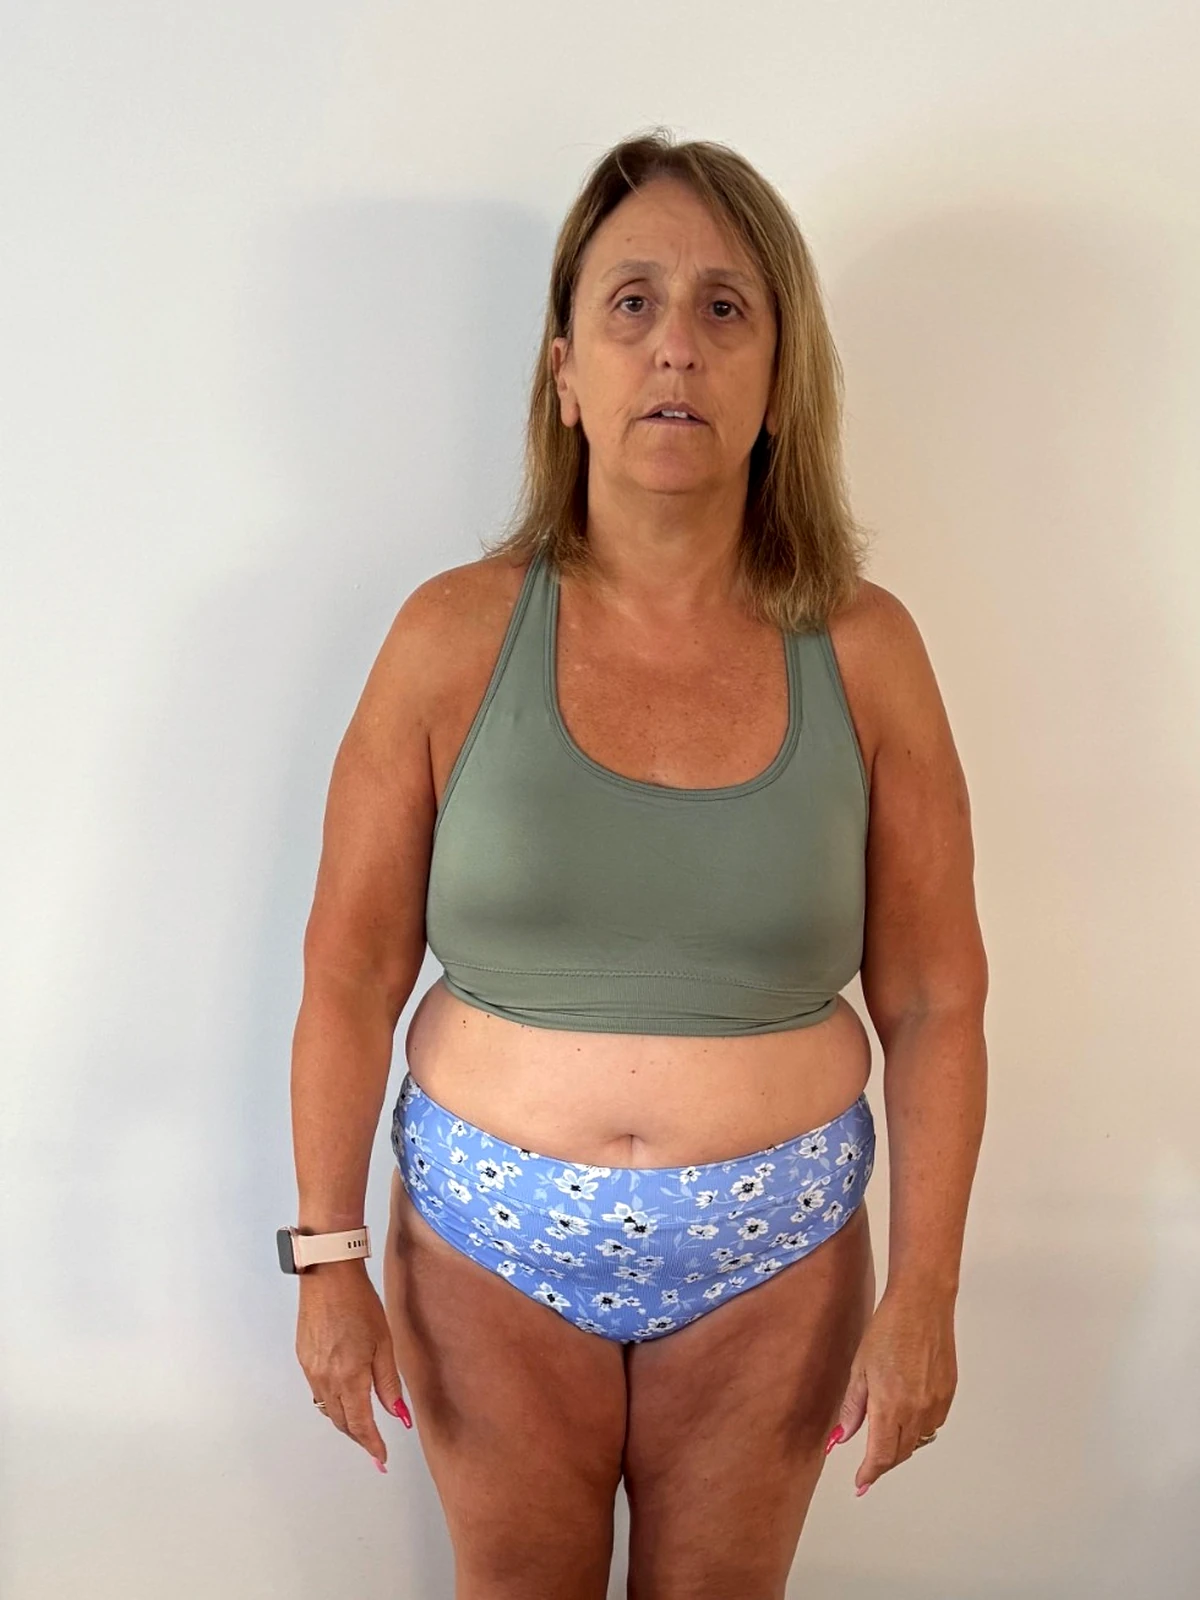
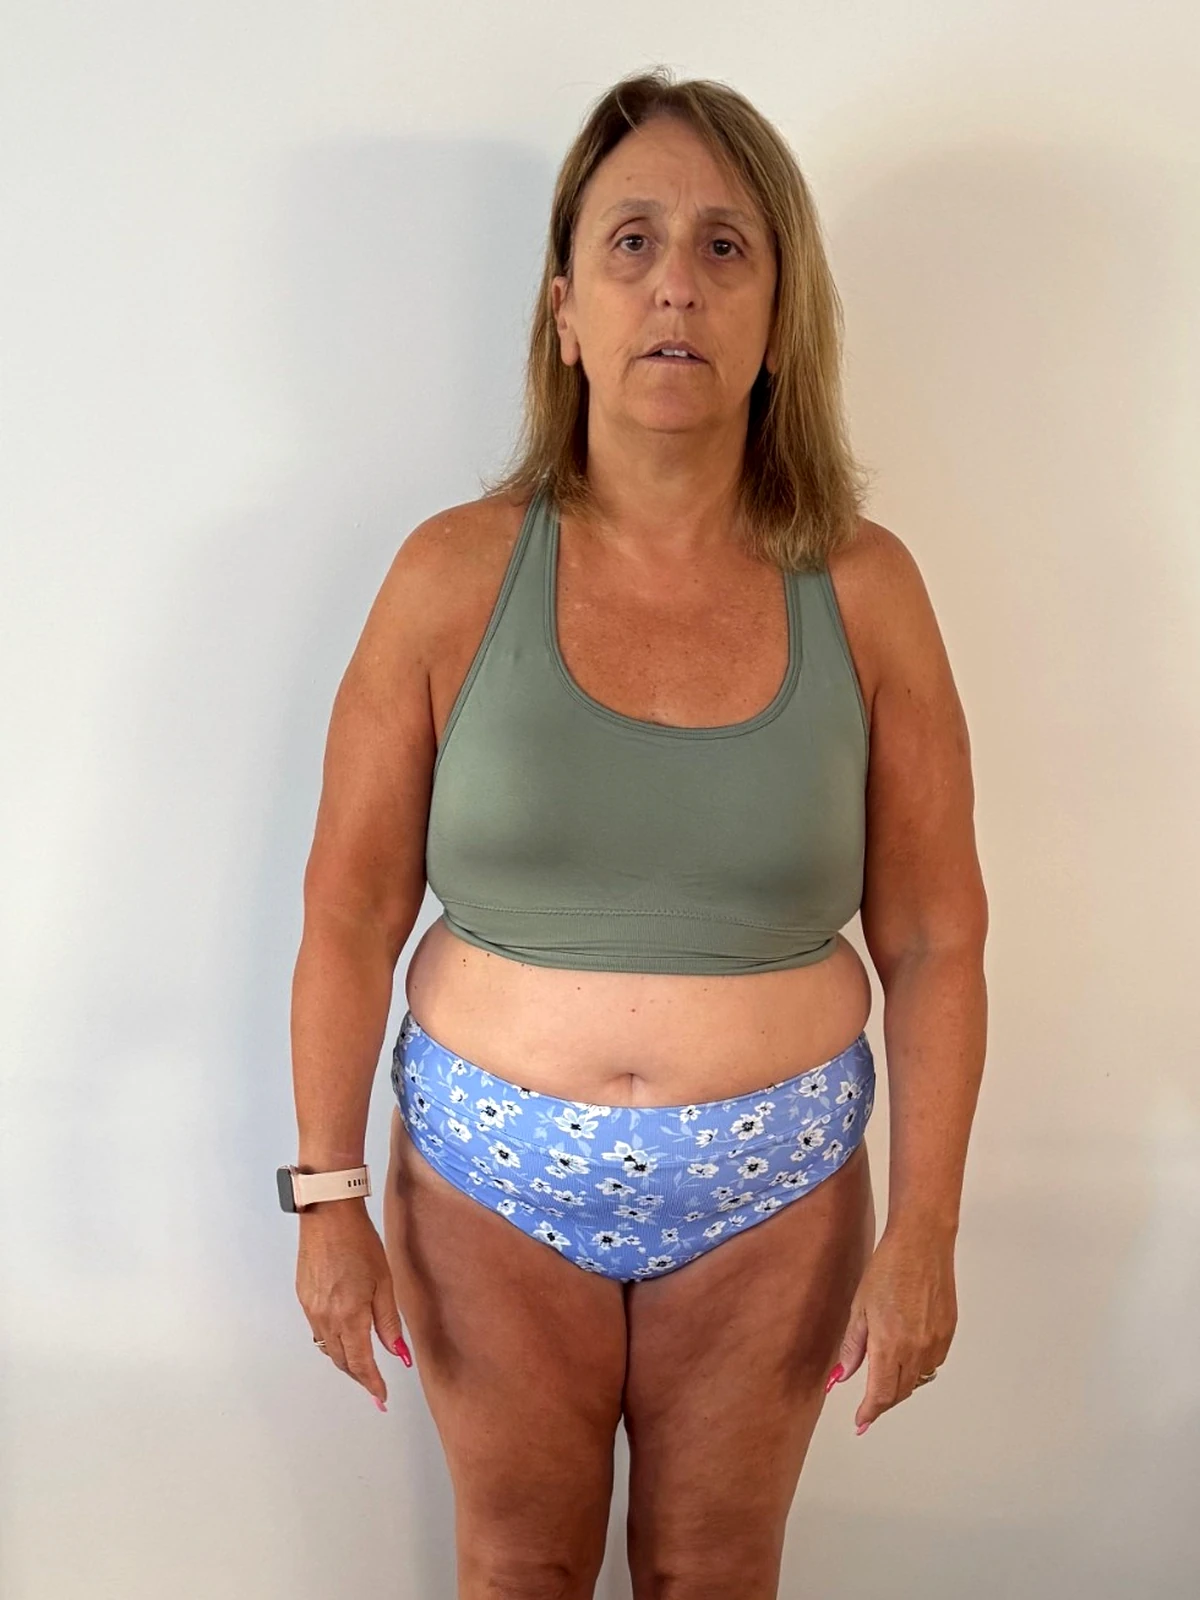
Align before photo height to after in slider
Raise the before crop so the subject's head/body sits at the same
height as the after (head-tops within 1px), so the wipe lines up
across the seam.

Claude-Session: https://claude.ai/code/session_011m1xHkumRNsKTuSQjTYGxR

diff --git a/men.html b/men.html
@@ -303,7 +303,7 @@
       </div>
 
       <div id="ba-before" style="position:absolute;top:0;left:0;width:100%;height:100%;overflow:hidden;clip-path:inset(0 50% 0 0);">
-        <img src="reviews/ba-before2.webp?v=11" alt="Vikki Milroy before" style="width:100%;height:100%;object-fit:cover;object-position:center;" />
+        <img src="reviews/ba-before2.webp?v=12" alt="Vikki Milroy before" style="width:100%;height:100%;object-fit:cover;object-position:center;" />
       </div>
 
       <div id="ba-line" style="position:absolute;top:0;bottom:0;left:50%;width:2px;background:#ffffff;transform:translateX(-50%);z-index:10;pointer-events:none;"></div>
